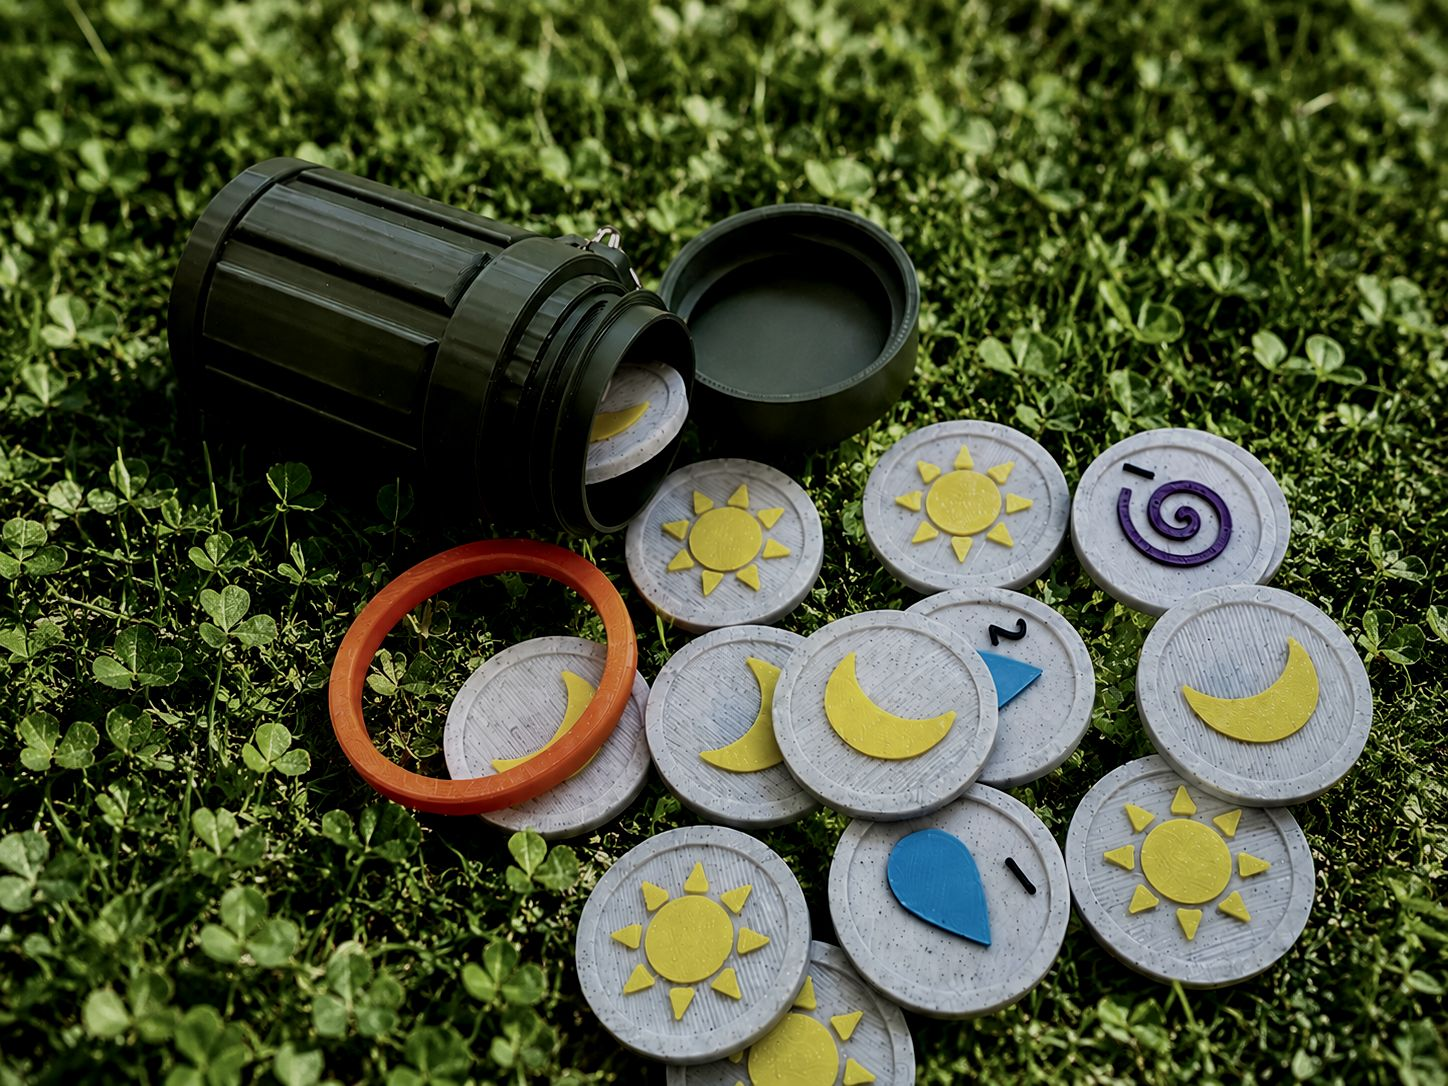
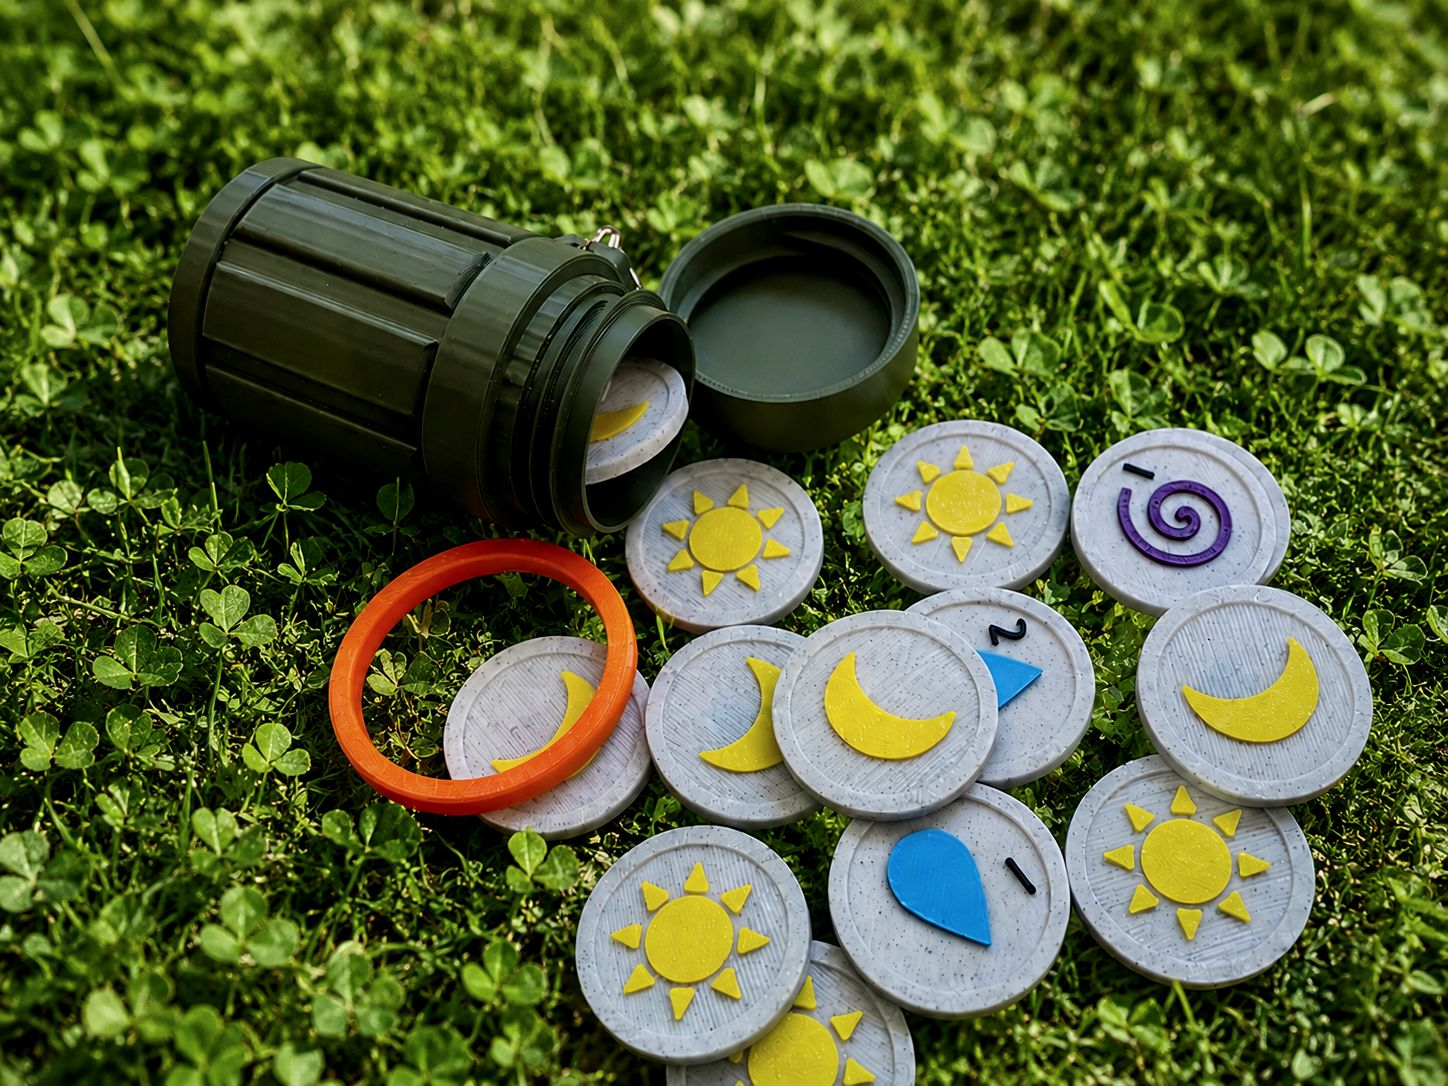
fix: photo8 lighter, zoom adjust

diff --git a/game/index.html b/game/index.html
@@ -444,7 +444,7 @@ footer{padding:32px 48px;border-top:1px solid rgba(255,255,255,0.08);display:fle
 
 <div class="product-grid">
   <div class="product-img-wrap">
-    <img src="photo8.jpg" alt="しんらポケット — 手のひらサイズ" style="width:100%;height:100%;object-fit:cover;object-position:center 55%;transform:scale(1.3);transform-origin:center;">
+    <img src="photo8.jpg" alt="しんらポケット — 手のひらサイズ" style="width:100%;height:100%;object-fit:cover;object-position:center 45%;transform:scale(1.1);transform-origin:center;">
     <div class="product-img-label">SHINRA POCKET</div>
   </div>
   <div class="product-text">
